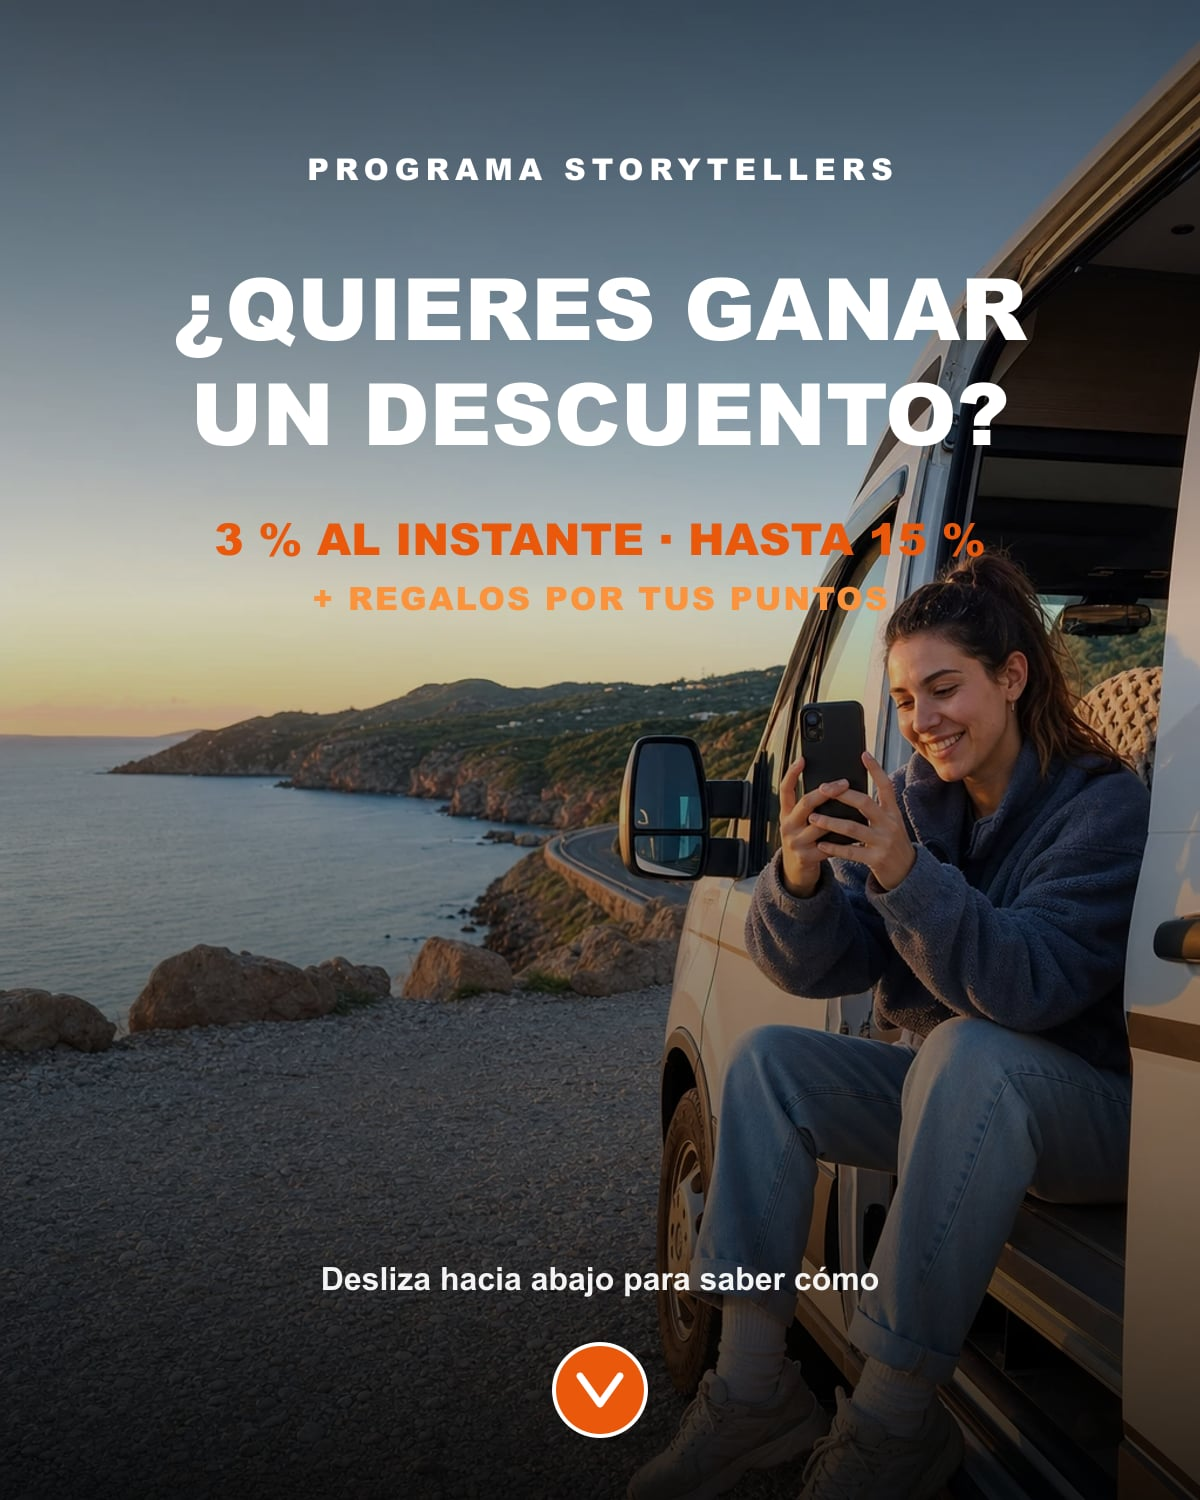
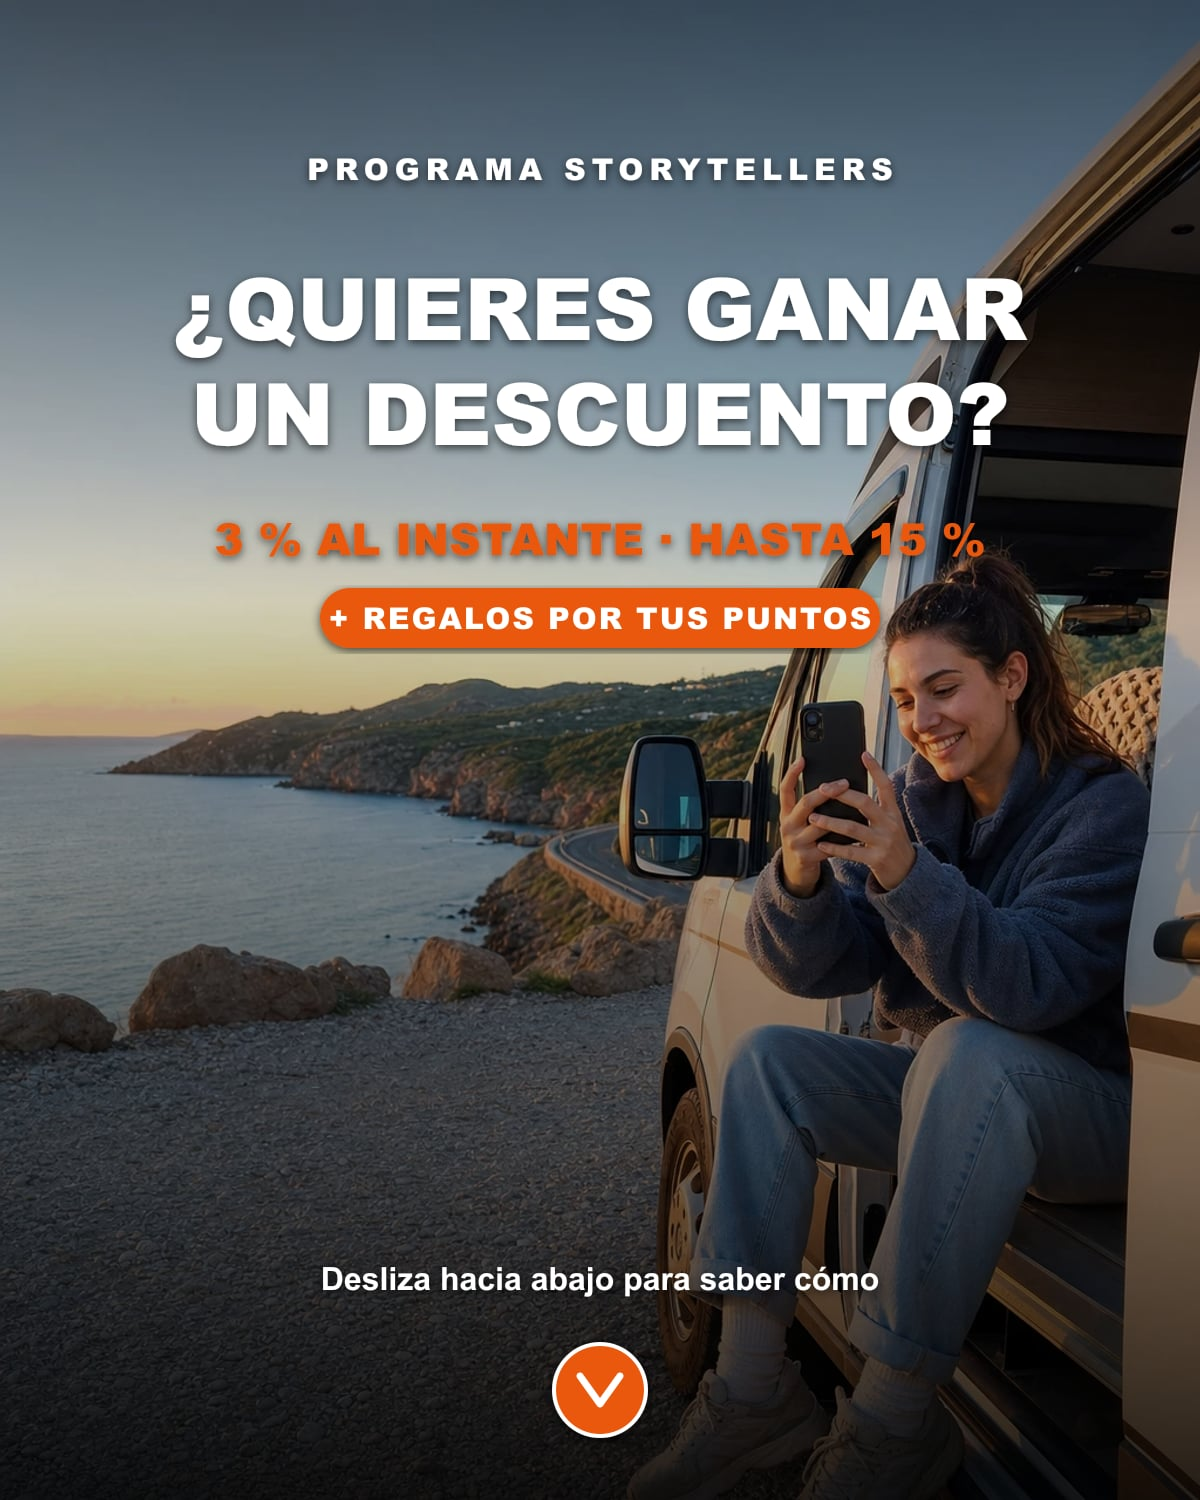
feat(storytellers): tono comercial unificado en mails, landing y portadas
- mails 05/06/07: copy mas friendly y comercial (trato, "te invitamos al
  siguiente", "te lo regalamos por arrancar", "regalos" como cierre de promesa).
  Reescritos intros, subheads, despedidas y bloques destacados sin tocar
  diseno, tablas tecnicas ni datos. Bloque "que te llevas" del 05 reorganizado
  como 3 promesas + nota gris con la letra pequena (18m, baja/media, min 4 dias).
- landing publica (storytellers-landing.tsx): hero, Como funciona?, Lo que te
  llevas tu, Regalos por tus puntos y CTA final reescritos con el mismo tono y
  enfasis explicito en descuentos + regalos.
- portadas-CTA (cover-cta-05/06/07): badge naranja "+ REGALOS POR TUS PUNTOS"
  con texto blanco y drop-shadow para legibilidad sobre cualquier fondo;
  subline final con peso 700.
- script download-mailing-assets.mjs: SVG de portadas refactorizado con filter
  drop-shadow y badge tipo pill para el claim de regalos.

diff --git a/src/components/storytellers/storytellers-landing.tsx b/src/components/storytellers/storytellers-landing.tsx
@@ -155,14 +155,14 @@ export function StorytellersLanding() {
           <div className="grid items-center gap-12 lg:grid-cols-2">
             <div>
               <p className="mb-3 text-sm font-semibold uppercase tracking-wider text-orange-100">
-                Programa Storytellers · Para clientes Furgocasa
+                Programa Storytellers · Comparte tu viaje, llévate descuento
               </p>
               <h1 className="font-heading text-4xl font-bold leading-tight text-white md:text-5xl lg:text-[2.75rem] xl:text-5xl">
-                Sube tus fotos y vídeos del viaje. Gana hasta un {MAX_DISCOUNT_PCT}% de descuento.
+                Comparte tu viaje a cambio de descuentos.
               </h1>
               <p className="mt-6 text-lg leading-relaxed text-orange-50 md:text-xl">
-                Si haces buenas fotos o vídeos durante tu alquiler con Furgocasa, súbelos a nuestro portal y empieza a sumar puntos.{" "}
-                <strong className="font-semibold text-white">Sin login, sin formularios infinitos, sin compromisos.</strong>
+                Hasta un <strong className="font-semibold text-white">{MAX_DISCOUNT_PCT}% de descuento</strong> en tu próxima reserva, y <strong className="font-semibold text-white">regalos por tus puntos</strong>.{" "}
+                <span className="block mt-2 text-orange-100/95">Sin login, sin formularios infinitos, sin compromisos.</span>
               </p>
               <div className="mt-8 flex flex-col gap-3 sm:flex-row sm:flex-wrap">
                 <a
@@ -229,7 +229,7 @@ export function StorytellersLanding() {
             ¿Cómo funciona?
           </h2>
           <p className="mx-auto mt-4 max-w-2xl text-center text-gray-600">
-            4 pasos sencillos. Empiezas durante el propio viaje y acabas con un cupón listo para tu próxima reserva.
+            4 pasos sencillos: del primer clic en el portal al <strong>cupón de descuento</strong> listo para tu próxima reserva.
           </p>
           <ol className="mx-auto mt-12 grid max-w-6xl gap-6 sm:grid-cols-2 lg:grid-cols-4">
             {[
@@ -285,7 +285,7 @@ export function StorytellersLanding() {
               ¿Qué es este programa?
             </h2>
             <p className="mt-4 text-lg text-gray-600">
-              Un canal sencillo para que <strong>tus clientes-creadores</strong> (tú) compartan con nosotros las fotos y vídeos que ya hacen durante el viaje. A cambio, descuentos reales en futuras reservas.
+              Un canal sencillo para que <strong>tus clientes-creadores</strong> (tú) compartan con nosotros las fotos y vídeos que ya hacen durante el viaje. A cambio: <strong>descuentos reales en futuras reservas y regalos por tus puntos</strong>.
             </p>
           </div>
           <ul className="mx-auto mt-10 grid max-w-4xl gap-4 sm:grid-cols-2">
@@ -319,10 +319,10 @@ export function StorytellersLanding() {
             id="que-ofrecemos-storytellers"
             className="text-center font-heading text-3xl font-bold text-gray-900 md:text-4xl"
           >
-            Qué ofrecemos
+            Lo que te llevas tú
           </h2>
           <p className="mx-auto mt-4 max-w-2xl text-center text-gray-600">
-            Las ventajas reales del programa, sin letra pequeña escondida.
+            Lo que ganas por participar, sin letra pequeña escondida.
           </p>
           <div className="mx-auto mt-12 grid max-w-5xl gap-6 md:grid-cols-2">
             {[
@@ -347,8 +347,8 @@ export function StorytellersLanding() {
                 body: "Te explicamos al pie del subidor qué autorizas: cesión no exclusiva para uso comercial. Sin sorpresas, y conservas tu material para uso propio.",
               },
               {
-                title: `Perks por encima del ${MAX_DISCOUNT_PCT}%`,
-                body: "Cuando llegas al techo del descuento, los puntos siguen sumando: acceso anticipado a flota, vehículos garantizados, upgrades… extras pensados para clientes recurrentes que aportan mucho.",
+                title: `Regalos por encima del ${MAX_DISCOUNT_PCT}%`,
+                body: "Cuando llegas al techo del descuento, tus puntos siguen sumando para canjearlos por merchandising oficial Furgocasa: taza, camiseta y sudadera de edición Storytellers.",
               },
             ].map((card) => (
               <div
@@ -679,10 +679,10 @@ export function StorytellersLanding() {
             id="perks-storytellers"
             className="text-center font-heading text-3xl font-bold text-gray-900 md:text-4xl"
           >
-            Perks adicionales — merchandising
+            Regalos por tus puntos — merchandising oficial
           </h2>
           <p className="mx-auto mt-3 max-w-2xl text-center text-gray-600">
-            Por encima del techo del {MAX_DISCOUNT_PCT}% los puntos siguen sumando y se canjean por merch oficial. Pensado para Storytellers recurrentes que aportan mucho material.
+            Cuando llegas al techo del {MAX_DISCOUNT_PCT}%, tus puntos se convierten en <strong>regalos</strong>: merchandising oficial Furgocasa, edición Storytellers, pensado para Storytellers recurrentes que aportan mucho material.
           </p>
           <ul className="mx-auto mt-12 grid max-w-5xl gap-6 sm:grid-cols-2 lg:grid-cols-3">
             {PERK_TIERS.map((p) => (
@@ -780,10 +780,10 @@ export function StorytellersLanding() {
       <section className="border-t border-gray-100 bg-gradient-to-r from-furgocasa-orange to-furgocasa-orange-dark py-16 md:py-20 text-white">
         <div className="container mx-auto px-4 text-center">
           <h2 className="font-heading text-3xl font-bold md:text-4xl">
-            ¿Listo para empezar?
+            Tu descuento empieza con la primera foto.
           </h2>
           <p className="mx-auto mt-4 max-w-2xl text-lg text-orange-50">
-            Sube tus fotos y vídeos en menos de 2 minutos. Te llevarás un cupón instantáneo del 3% por tu primera subida.
+            Sube tus fotos y vídeos en menos de 2 minutos. Te llevarás un cupón instantáneo del <strong className="font-semibold text-white">3 %</strong> por tu primera subida — y empezarás a sumar puntos hacia el {MAX_DISCOUNT_PCT}% y los regalos.
           </p>
           <div className="mt-8 flex flex-col items-center justify-center gap-4 sm:flex-row">
             <a

diff --git a/mailing/app/07-storytellers-dia-despues-vuelta.html b/mailing/app/07-storytellers-dia-despues-vuelta.html
@@ -65,7 +65,7 @@
                 No dejes el descuento en el móvil.
               </h1>
               <p style="margin: 10px 0 0 0; font-size: 16px; color: #ea580c; font-weight: bold; line-height: 1.35;">
-                Súbenos tus fotos y vídeos del viaje y llévate hasta un 15 % en tu próxima reserva.
+                Súbenos las fotos y vídeos del viaje y empieza a ahorrar en la próxima escapada &mdash; hasta un 15 %, más regalos.
               </p>
             </td>
           </tr>
@@ -77,9 +77,11 @@
                 Hola <strong>Juan</strong>,
               </p>
               <p style="margin: 0; font-size: 15px; color: #374151; line-height: 1.6;">
-                Esperamos que el viaje haya ido bien. Antes de que las fotos y vídeos se queden enterrados en la galería del móvil,
-                recuerda el trato del programa <strong>Storytellers</strong>: tú nos pasas las fotos y vídeos que ya tienes,
-                <strong>nosotros te devolvemos descuento en tu próxima reserva</strong>. Tienes <strong>90 días</strong> desde la devolución para hacerlo.
+                Esperamos que la ruta con la camper haya ido bien. Antes de que esas <strong>fotos y vídeos chulos</strong>
+                se queden olvidados en la galería del móvil para siempre, te recordamos el trato del programa
+                <strong>Storytellers</strong>: tú nos los pasas, <strong>nosotros te devolvemos descuento</strong> (y algún
+                <strong>regalo</strong>) para tu siguiente escapada con Furgocasa. Y no hay prisa: tienes <strong>90 días</strong>
+                desde la devolución para subirlos.
               </p>
             </td>
           </tr>
@@ -91,12 +93,13 @@
                 <tr>
                   <td style="padding: 18px 18px 14px 18px;">
                     <p style="margin: 0 0 8px 0; font-size: 14px; font-weight: bold; color: #9a3412;">
-                      No pierdas la oportunidad de viajar de nuevo con descuento
+                      No dejes pasar la oportunidad de volver a viajar con descuento
                     </p>
                     <p style="margin: 0; font-size: 13px; color: #1f2937; line-height: 1.55;">
-                      Sube al menos <strong>3 fotos</strong> o <strong>1 vídeo</strong> y te llevas un
+                      Con solo <strong>3 fotos</strong> o <strong>1 vídeo</strong> ya te llevas un
                       <strong>cupón del 3 %</strong> al instante, válido durante 18 meses.
-                      Si subes más material y nos sirve para nuestro archivo, sigues sumando puntos hasta el techo del <strong>15 %</strong>.
+                      Y si nos enamoramos de algo de lo que subes y lo elegimos para nuestro archivo, los puntos engordan rápido:
+                      <strong>5 % &rarr; 8 % &rarr; 10 % &rarr; 12 % &rarr; 15 %</strong>. Y por encima del 15 %, <strong>regalos</strong>.
                     </p>
                   </td>
                 </tr>
@@ -189,11 +192,11 @@
               <table role="presentation" width="100%" cellspacing="0" cellpadding="0" border="0" style="background-color: #f0f9ff; border-left: 4px solid #063971;">
                 <tr>
                   <td style="padding: 16px 18px;">
-                    <p style="margin: 0 0 8px 0; font-weight: bold; color: #111827; font-size: 14px;">Cómo subir, en un minuto</p>
+                    <p style="margin: 0 0 8px 0; font-weight: bold; color: #111827; font-size: 14px;">Subir es cosa de menos de 2 minutos</p>
                     <p style="margin: 0; font-size: 13px; color: #374151; line-height: 1.55;">
-                      Entra en <a href="https://www.furgocasa.com/es/storytellers/subir" style="color: #063971; text-decoration: underline;">www.furgocasa.com/es/storytellers/subir</a>, introduce tu <strong>número de reserva</strong>
-                      (formato <span style="font-family: Consolas, monospace; background-color: #ffffff; padding: 1px 6px; color: #063971;">FC-2026-001234</span>) y el <strong>email de la reserva</strong>,
-                      y arrastra los archivos. Lote mínimo: 3 fotos o 1 vídeo. Sin login, sin contraseñas.
+                      Entra en <a href="https://www.furgocasa.com/es/storytellers/subir" style="color: #063971; text-decoration: underline;">www.furgocasa.com/es/storytellers/subir</a>, escribe tu <strong>número de reserva</strong>
+                      (formato <span style="font-family: Consolas, monospace; background-color: #ffffff; padding: 1px 6px; color: #063971;">FC-2026-001234</span>) y el <strong>email con el que reservaste</strong>,
+                      y arrastra los archivos. Mínimo 3 fotos o 1 vídeo. <strong>Sin login, sin contraseñas, sin formularios largos.</strong>
                     </p>
                   </td>
                 </tr>
@@ -228,7 +231,7 @@
           <tr>
             <td style="padding: 4px 24px 30px 24px;">
               <p style="margin: 0; font-size: 14px; color: #374151; line-height: 1.55;">
-                Gracias por viajar con Furgocasa &mdash; nos encantará verte de nuevo, y con descuento.<br/>
+                Gracias por viajar con Furgocasa. Nos encantará verte de nuevo &mdash; y, si haces los deberes con Storytellers, con descuento puesto.<br/>
                 <strong>El equipo de Furgocasa</strong>
               </p>
             </td>

diff --git a/mailing/app/05-storytellers-dia-salida-noche.html b/mailing/app/05-storytellers-dia-salida-noche.html
@@ -65,7 +65,7 @@
                 Comparte tu viaje a cambio de descuentos.
               </h1>
               <p style="margin: 10px 0 0 0; font-size: 16px; color: #ea580c; font-weight: bold; line-height: 1.35;">
-                3 % al instante en tu primera subida. Hasta un 15 % en tu próxima reserva.
+                Empieza con un 3 % al instante. Y sigue subiendo: hasta un 15 % de descuento, más regalos.
               </p>
             </td>
           </tr>
@@ -77,10 +77,11 @@
                 Hola <strong>Juan</strong>,
               </p>
               <p style="margin: 0; font-size: 15px; color: #374151; line-height: 1.6;">
-                Tu viaje con Furgocasa ya ha empezado. Las fotos y vídeos que estás haciendo
-                <strong>nos los puedes pasar a nosotros</strong> a través del programa <strong>Storytellers</strong>:
-                tú nos cedes el material, <strong>nosotros te devolvemos descuento en tu próxima escapada</strong>.
-                Sin login, sin formularios largos, sin compromisos.
+                Hoy empieza tu viaje con Furgocasa. Y como sabemos que vas a hacer <strong>fotos y vídeos chulos</strong>,
+                te proponemos un trato muy sencillo: <strong>súbenoslos al programa Storytellers</strong> y nosotros
+                te invitamos al <strong>siguiente</strong>. Tú nos das tu mejor material, nosotros te damos
+                <strong>descuento</strong> (y algún <strong>regalo</strong>) para que vuelvas a viajar antes de lo previsto.
+                Sin crear cuenta, sin contraseñas, sin compromisos.
               </p>
             </td>
           </tr>
@@ -92,25 +93,28 @@
                 <tr>
                   <td style="padding: 18px 18px 14px 18px;">
                     <p style="margin: 0 0 10px 0; font-size: 14px; font-weight: bold; color: #9a3412;">
-                      ¿Qué te llevas por participar?
+                      Esto es lo que te llevas tú
                     </p>
                     <table role="presentation" width="100%" cellspacing="0" cellpadding="0" border="0">
                       <tr>
                         <td style="padding: 4px 0; font-size: 13px; color: #1f2937; line-height: 1.55;">
-                          &bull; <strong>3 % de descuento al instante</strong> con tu primera subida válida (cupón de bienvenida).
+                          &bull; <strong>3 % de descuento al instante</strong> con tu primera subida &mdash; te lo regalamos solo por arrancar.
                         </td>
                       </tr>
                       <tr>
                         <td style="padding: 4px 0; font-size: 13px; color: #1f2937; line-height: 1.55;">
-                          &bull; <strong>Hasta un 15 %</strong> de descuento por puntos acumulados (5 % &middot; 8 % &middot; 10 % &middot; 12 % &middot; 15 %).
+                          &bull; Hasta un <strong>15 % de descuento</strong> según vas sumando puntos (5 % &rarr; 8 % &rarr; 10 % &rarr; 12 % &rarr; 15 %).
                         </td>
                       </tr>
                       <tr>
                         <td style="padding: 4px 0; font-size: 13px; color: #1f2937; line-height: 1.55;">
-                          &bull; Cupones <strong>válidos 18 meses</strong>, baja y media temporada, mínimo 4 días de reserva.
+                          &bull; Y cuando llegas al techo, <strong>regalos</strong>: taza, camiseta y sudadera de edición Storytellers.
                         </td>
                       </tr>
                     </table>
+                    <p style="margin: 8px 0 0 0; font-size: 11px; color: #9ca3af; line-height: 1.5;">
+                      Cupones válidos 18 meses, en baja y media temporada y reservas de 4 días o más.
+                    </p>
                   </td>
                 </tr>
               </table>
@@ -218,7 +222,7 @@
                 El tipo de momentos que nos encantan
               </p>
               <p style="margin: 10px 0 0 0; font-size: 13px; color: #6b7280; line-height: 1.55;">
-                No buscamos perfección de revista: buscamos verdad de viaje. Luz natural, gente real, rincones que cuentan algo.
+                No necesitas ser fotógrafo. Buscamos lo de verdad: <strong>luz natural, gente real, rincones que cuentan algo</strong>. Tu móvil basta.
               </p>
             </td>
           </tr>
@@ -262,7 +266,7 @@
           <tr>
             <td style="padding: 4px 24px 30px 24px;">
               <p style="margin: 0; font-size: 14px; color: #374151; line-height: 1.55;">
-                Disfruta del viaje &mdash; y cuando tengas un rato, cuéntanos cómo va.<br/>
+                Disfruta del viaje. Y cuando tengas la primera foto buena, ya sabes dónde subirla.<br/>
                 <strong>El equipo de Furgocasa</strong>
               </p>
             </td>

diff --git a/mailing/app/06-storytellers-mitad-viaje.html b/mailing/app/06-storytellers-mitad-viaje.html
@@ -64,7 +64,7 @@
                 Cada foto o vídeo que nos pases es descuento en tu bolsillo.
               </h1>
               <p style="margin: 10px 0 0 0; font-size: 16px; color: #ea580c; font-weight: bold; line-height: 1.35;">
-                3 % al instante en tu primera subida. Hasta un 15 % de descuento.
+                Empieza con un 3 % al instante. Y sigue: hasta un 15 % de descuento + regalos en tu próxima reserva.
               </p>
             </td>
           </tr>
@@ -76,9 +76,10 @@
                 Hola <strong>Juan</strong>,
               </p>
               <p style="margin: 0; font-size: 15px; color: #374151; line-height: 1.6;">
-                Vas por la mitad del viaje y seguro que ya tienes <strong>fotos y vídeos buenos</strong>.
-                Pásanoslos por el programa <strong>Storytellers</strong> y empezamos a descontarte tu próxima escapada con Furgocasa.
-                <strong>Cuanto antes subas, antes tienes cupón.</strong>
+                ¿Qué tal va la ruta? A estas alturas seguro que ya tienes <strong>fotos y vídeos para enseñar al volver</strong>.
+                Mándanoslas también a nosotros por el programa <strong>Storytellers</strong> y, con la primera subida,
+                ya te llevas un <strong>3 % de descuento</strong> para tu próxima escapada con Furgocasa.
+                <strong>Cuanto antes subas, antes empieza a sumar</strong> &mdash; y antes tienes cupón listo en tu cuenta.
               </p>
             </td>
           </tr>
@@ -131,8 +132,9 @@
           <tr>
             <td style="padding: 10px 24px 0 24px;">
               <p style="margin: 0; font-size: 12px; color: #6b7280; line-height: 1.55;">
-                Sumas <strong>+2 ptos por foto</strong> y <strong>+5 ptos por vídeo</strong> que subas.
-                Si seleccionamos algo para nuestro archivo: <strong>+20 ptos</strong> por foto y <strong>+60</strong> por vídeo.
+                Cada foto suma <strong>+2 ptos</strong> y cada vídeo <strong>+5 ptos</strong> al subirlos.
+                Y si nos enamoramos de tu material y lo elegimos para nuestro archivo, llegan los puntos buenos:
+                <strong>+20 ptos por foto, +60 por vídeo</strong>.
               </p>
             </td>
           </tr>
@@ -169,11 +171,11 @@
               <table role="presentation" width="100%" cellspacing="0" cellpadding="0" border="0" style="background-color: #f0f9ff; border-left: 4px solid #063971;">
                 <tr>
                   <td style="padding: 16px 18px;">
-                    <p style="margin: 0 0 8px 0; font-weight: bold; color: #111827; font-size: 14px;">Cómo subir, en un minuto</p>
+                    <p style="margin: 0 0 8px 0; font-weight: bold; color: #111827; font-size: 14px;">Subir es cosa de un minuto</p>
                     <p style="margin: 0; font-size: 13px; color: #374151; line-height: 1.55;">
-                      Entra en <a href="https://www.furgocasa.com/es/storytellers/subir" style="color: #063971; text-decoration: underline;">www.furgocasa.com/es/storytellers/subir</a>, introduce tu <strong>número de reserva</strong>
-                      (formato <span style="font-family: Consolas, monospace; background-color: #ffffff; padding: 1px 6px; color: #063971;">FC-2026-001234</span>) y el <strong>email de la reserva</strong>,
-                      y arrastra los archivos. Lote mínimo: 3 fotos o 1 vídeo. Puedes subir varios lotes durante el viaje.
+                      Entra en <a href="https://www.furgocasa.com/es/storytellers/subir" style="color: #063971; text-decoration: underline;">www.furgocasa.com/es/storytellers/subir</a>, escribe tu <strong>número de reserva</strong>
+                      (formato <span style="font-family: Consolas, monospace; background-color: #ffffff; padding: 1px 6px; color: #063971;">FC-2026-001234</span>) y el <strong>email con el que reservaste</strong>,
+                      y arrastra los archivos. Mínimo 3 fotos o 1 vídeo por subida. Y tranquilidad: puedes hacer varias durante el viaje.
                     </p>
                   </td>
                 </tr>
@@ -203,7 +205,7 @@
           <tr>
             <td style="padding: 4px 24px 30px 24px;">
               <p style="margin: 0; font-size: 14px; color: #374151; line-height: 1.55;">
-                Que disfrutes lo que queda de ruta &mdash; nos vemos a la vuelta.<br/>
+                Que sigan saliendo buenas fotos. Nos vemos a la vuelta &mdash; con descuento ya en tu cuenta, esperemos.<br/>
                 <strong>El equipo de Furgocasa</strong>
               </p>
             </td>